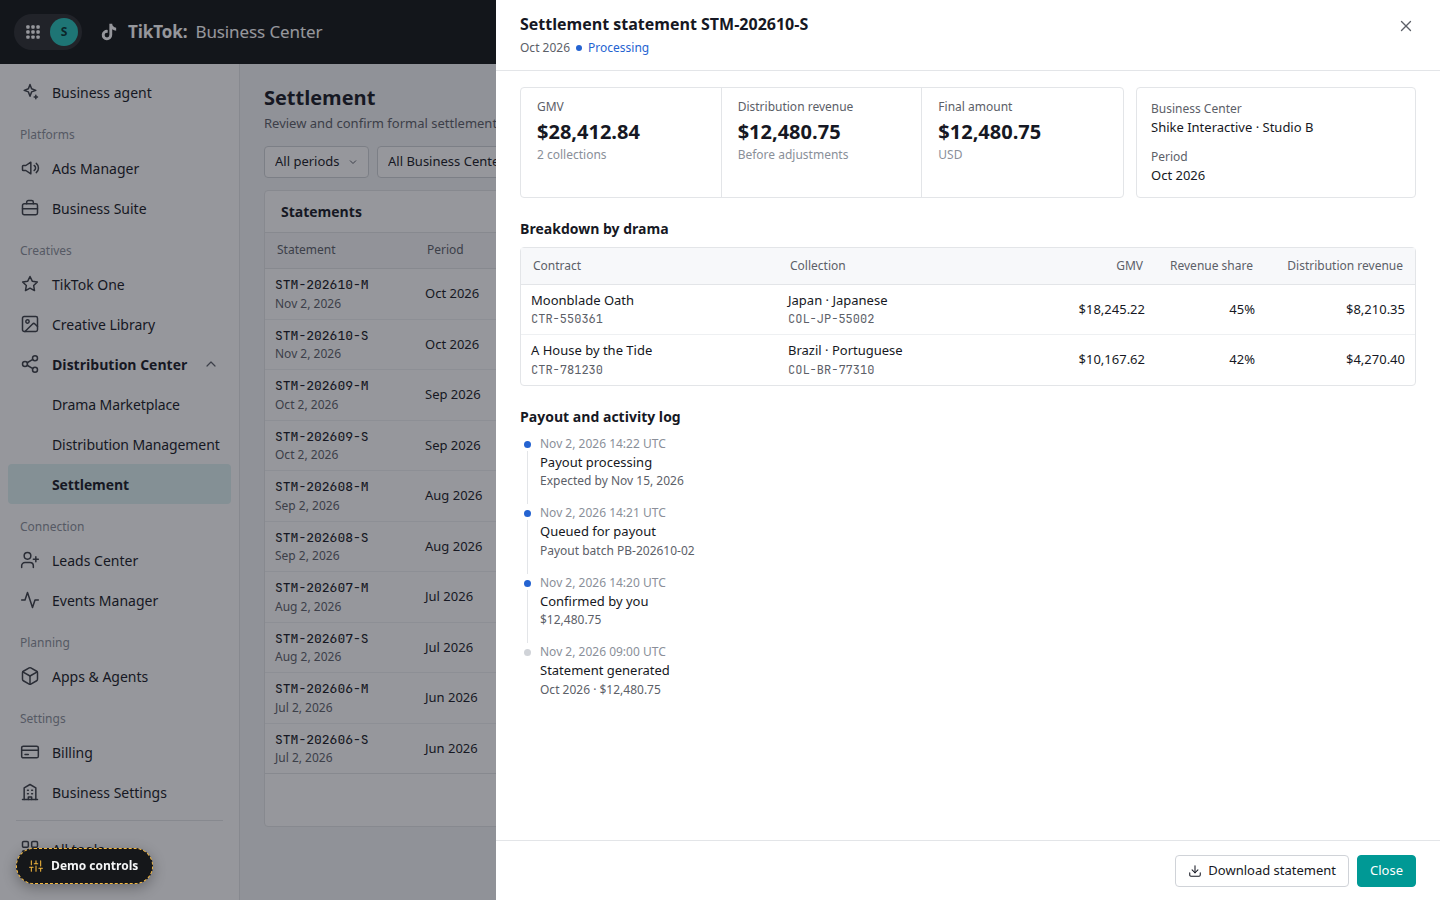
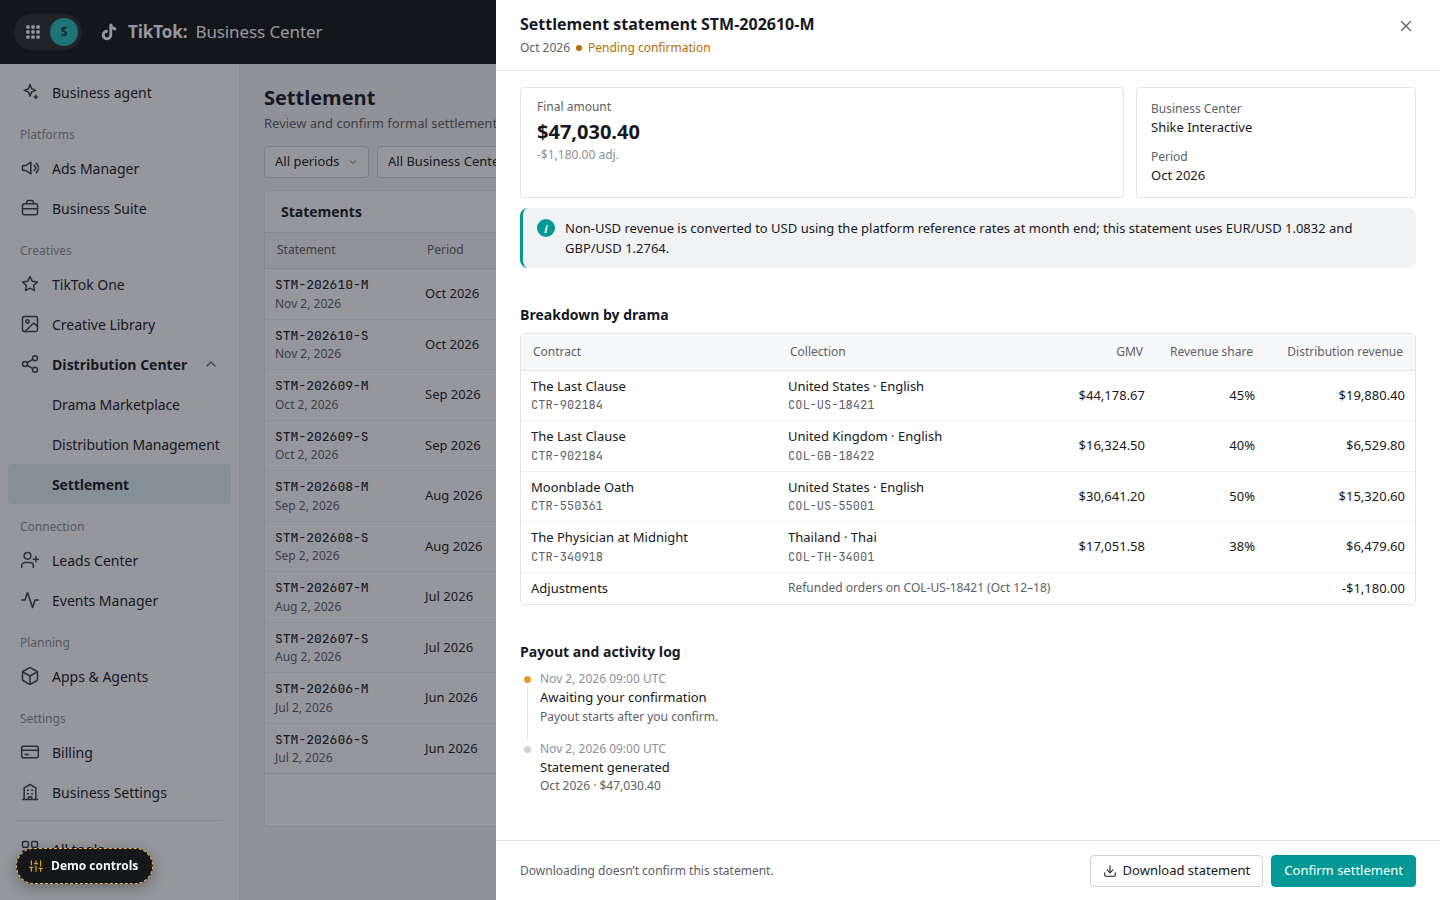
Sync prototype: statement drawer FX note
Keep only Final amount in the overview, add spacing between drawer rows, and show a pending-only month-end FX rate banner.

diff --git a/index.html b/index.html
@@ -295,11 +295,14 @@ button.kpi.on{box-shadow:inset 0 -2px 0 var(--primary)}
 .dr-cols{display:grid;grid-template-columns:minmax(0,1fr) 260px;gap:20px;align-items:start}
 .dr-aside{display:flex;flex-direction:column;gap:20px;min-width:0}
 .dr-aside .sec{margin-top:0}
-.stm-stack{display:flex;flex-direction:column;gap:20px}
+.stm-stack{display:flex;flex-direction:column;gap:36px}
 .stm-stack .sec{margin-top:0}
+.stm-row1{display:flex;flex-direction:column;gap:10px}
 .stm-top{display:grid;grid-template-columns:minmax(0,1fr) minmax(240px,280px);gap:12px;align-items:stretch}
 .stm-top .kpis{min-height:88px}
 .stm-top .box{display:flex;flex-direction:column;justify-content:center}
+.stm-note{display:flex;align-items:flex-start;gap:10px;padding:10px 14px;background:#F1F2F4;border-radius:8px;border-left:3px solid var(--primary);font-size:13px;line-height:20px;color:var(--text)}
+.stm-note-ic{flex:none;width:18px;height:18px;margin-top:1px;border-radius:50%;background:var(--primary);color:#fff;display:inline-flex;align-items:center;justify-content:center;font-size:11px;font-weight:700;font-style:italic;line-height:1}
 .kv .k{font-size:12px;color:var(--text2)}
 .kv .v{font-size:13px;word-break:break-word}
 .box{border:1px solid var(--border);border-radius:4px;padding:12px 14px}
@@ -1988,8 +1991,6 @@ function pageSettlement(){
 function stmDrawer(id){
   const s = stmOf(id), b = BCS[s.bc];
   const cols = stmColRows(s);
-  const gmv = cols.reduce((a, r) => a + r.gmv, 0);
-  const dist = cols.reduce((a, r) => a + r.dist, 0);
   const logs = stmTimeline(s);
   const bodyRows = cols.map(r => {
     const k = ctrOf(r.ctrId);
@@ -2002,16 +2003,18 @@ function stmDrawer(id){
   else foot += `<button class="btn btn-primary" data-act="close-drawer">Close</button>`;
   const notes = s.revised ? banner('warn', '<b>Amount revised: v1 to v2.</b> An adjustment of ' + money(s.adj) + ' was added on Nov 2 (' + s.adjNote + '). Please review and confirm again; your earlier review doesn\u2019t apply to the new version.') : '';
   const failBan = s.status === 'failed' ? banner('err', '<b>Payout failed · ' + s.failReason + '.</b> The bank rejected the transfer because the account holder name doesn\u2019t match the beneficiary on file. Update the beneficiary name in Billing, then request a payout retry.') : '';
+  const fxNote = s.status === 'pending' ? `<div class="stm-note"><span class="stm-note-ic" aria-hidden="true">i</span><div>Non-USD revenue is converted to USD using the platform reference rates at month end; this statement uses EUR/USD 1.0832 and GBP/USD 1.2764.</div></div>` : '';
   return {title:'Settlement statement ' + s.id, sub:`<span>${s.period}</span>${stChip(STM_ST, s.status)}`,
     body:`${notes || failBan ? (notes + failBan) + '<div style="height:12px"></div>' : ''}
       <div class="stm-stack">
-        <div class="stm-top">
-          <div class="kpis" style="--n:3">
-            <div class="kpi"><div class="kpi-l">GMV</div><div class="kpi-v">${money(gmv)}</div><div class="kpi-s">${plural(cols.length, 'collection')}</div></div>
-            <div class="kpi"><div class="kpi-l">Distribution revenue</div><div class="kpi-v">${money(dist)}</div><div class="kpi-s">Before adjustments</div></div>
-            <div class="kpi"><div class="kpi-l">Final amount</div><div class="kpi-v">${money(stmFinal(s))}</div><div class="kpi-s">${s.adj ? money(s.adj) + ' adj.' : 'USD'}</div></div>
+        <div class="stm-row1">
+          <div class="stm-top">
+            <div class="kpis" style="--n:1">
+              <div class="kpi"><div class="kpi-l">Final amount</div><div class="kpi-v">${money(stmFinal(s))}</div><div class="kpi-s">${s.adj ? money(s.adj) + ' adj.' : 'USD'}</div></div>
+            </div>
+            <div class="box"><div class="kv one"><div><div class="k">Business Center</div><div class="v">${b.name}</div></div><div><div class="k">Period</div><div class="v">${s.period}</div></div></div></div>
           </div>
-          <div class="box"><div class="kv one"><div><div class="k">Business Center</div><div class="v">${b.name}</div></div><div><div class="k">Period</div><div class="v">${s.period}</div></div></div></div>
+          ${fxNote}
         </div>
         <div class="sec"><div class="sec-h"><h4>Breakdown by drama</h4></div><div class="panel"><div class="tbl-wrap"><table class="tbl"><thead><tr><th>Contract</th><th>Collection</th><th class="num" style="width:120px">GMV</th><th class="num" style="width:110px">Revenue share</th><th class="num" style="width:150px">Distribution revenue</th></tr></thead><tbody>${bodyRows}
         ${s.adj ? `<tr><td>Adjustments</td><td colspan="3" class="cell-sub">${s.adjNote}</td><td class="num">${money(s.adj)}</td></tr>` : ''}
